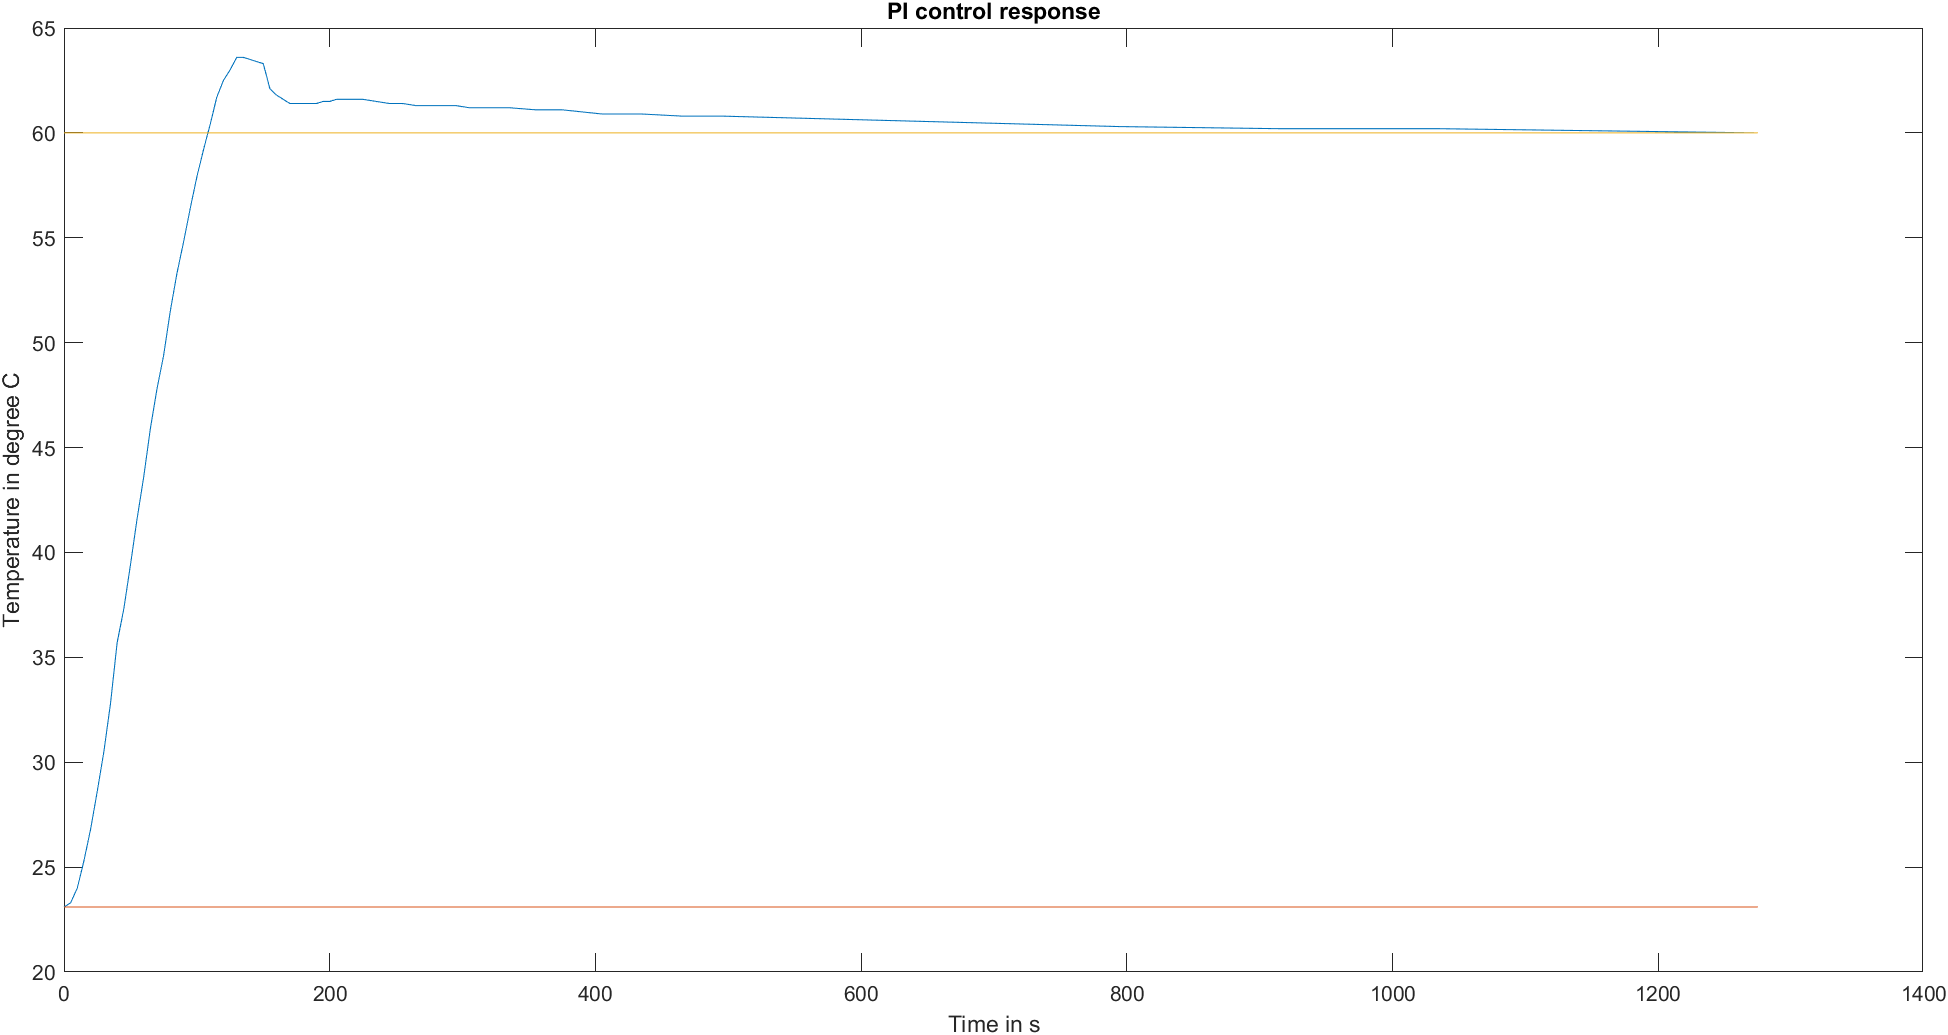
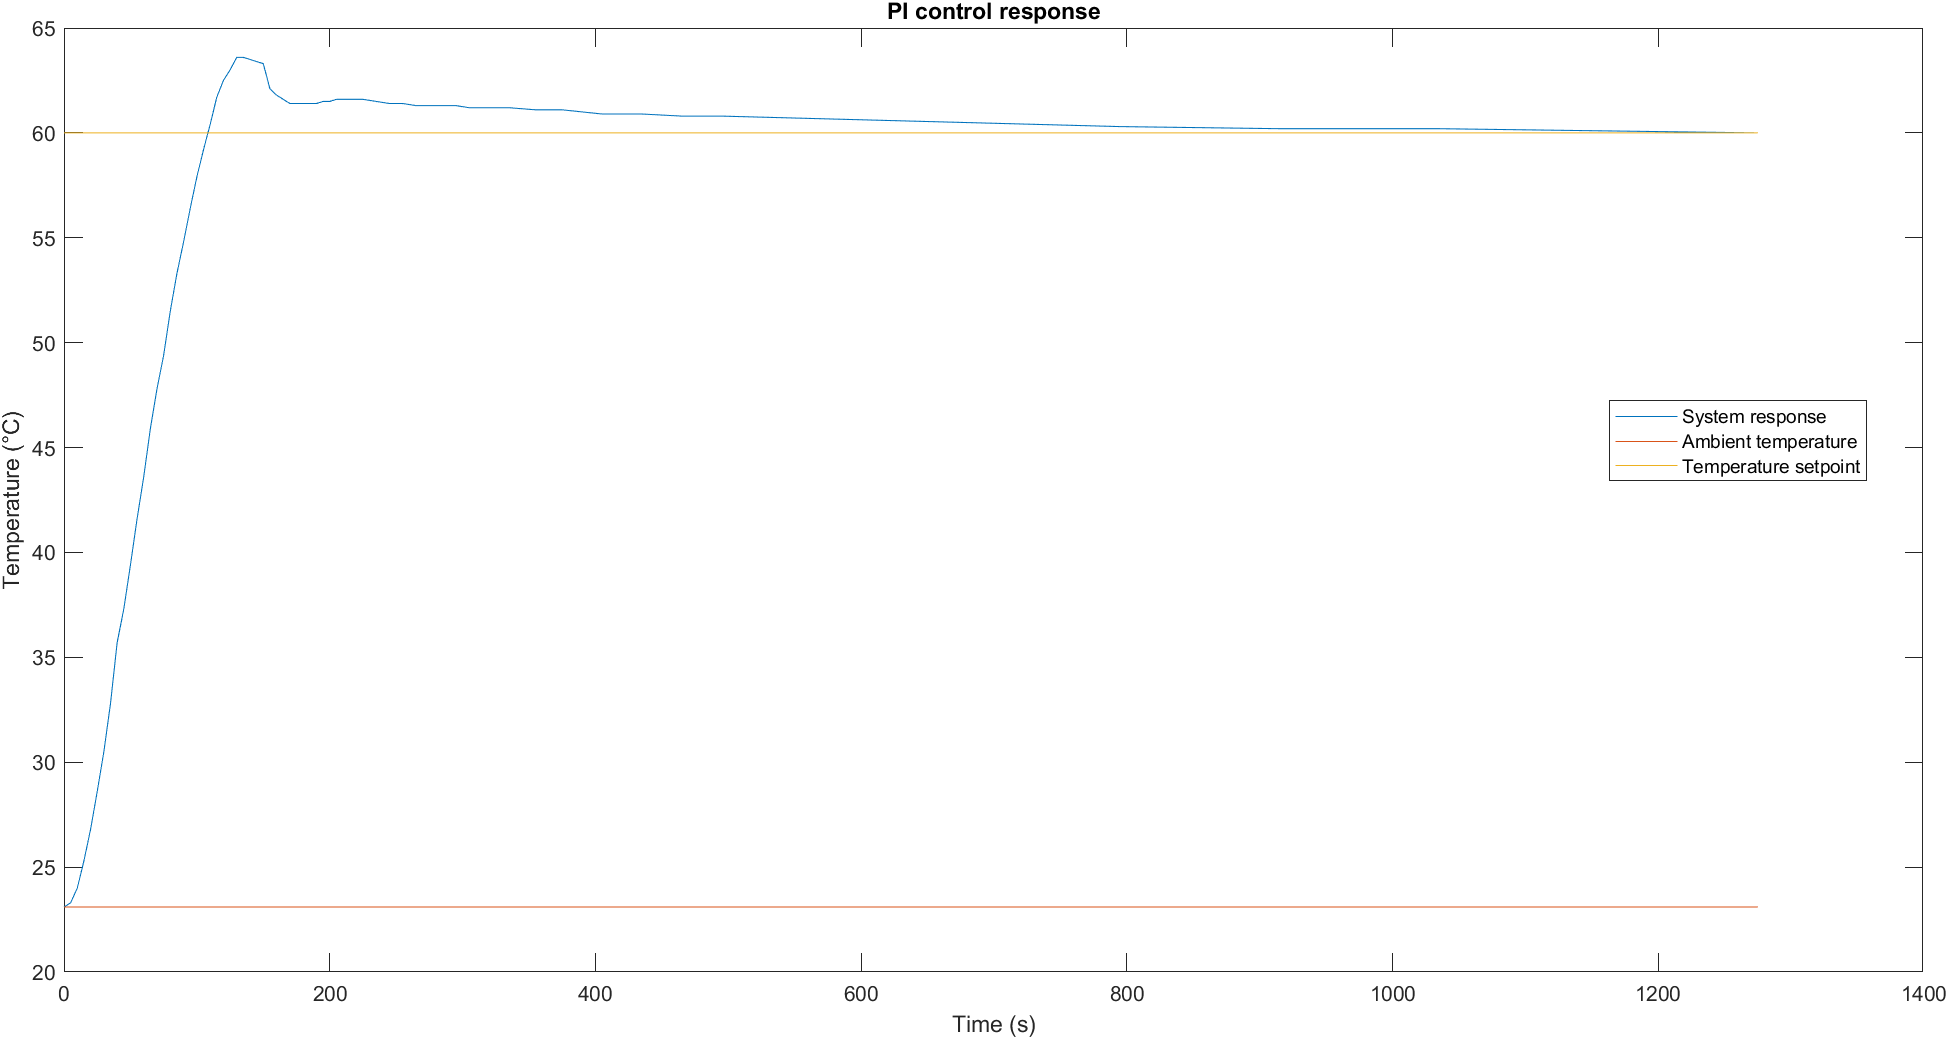
added legend to plots

diff --git a/on_off_control_script.m b/on_off_control_script.m
@@ -13,24 +13,26 @@ t2 = xlsread('on-off-control-high-hyst-data.xlsx', 'Sheet1', 'A2:A107');
 
 % Plot dataset 1
 figure;
-plot(t1, f1);
+plot(t1, f1);   % main plot
 ylim([20 80]);
 hold on;
-plot([t1(1), t1(end)], [f1(1),f1(1)]);
+plot([t1(1), t1(end)], [f1(1),f1(1)]);  % ambient temperature
 hold on;
-plot([t1(1), t1(end)], [set_val,set_val]);
-xlabel('Time in s');
-ylabel('Temperature in degree C');
+plot([t1(1), t1(end)], [set_val,set_val]);  % temperature setpoint
+xlabel('Time (s)');
+ylabel('Temperature (°C)');
 title('ON-OFF control - Low hysteresis')
+legend("System response", "Ambient temperature", "Temperature setpoint", 'Location', 'best');
 
 % Plot dataset 2
 figure;
-plot(t2, f2);
+plot(t2, f2);   % main plot
 ylim([20 80]);
 hold on;
-plot([t2(1), t2(end)], [f2(1), f2(1)]);
+plot([t2(1), t2(end)], [f2(1), f2(1)]);  % ambient temperature
 hold on;
-plot([t2(1), t2(end)], [set_val,set_val]);
-xlabel('Time in s')
-ylabel('Temperatue in degree C')
+plot([t2(1), t2(end)], [set_val,set_val]);  % temperature setpoint
+xlabel('Time (s)')
+ylabel('Temperatue (°C)')
 title('ON-OFF control - High hysteresis')
+legend("System response", "Ambient temperature", "Temperature setpoint", 'Location', 'best');

diff --git a/P_control_script.m b/P_control_script.m
@@ -20,15 +20,16 @@ f1 = xlsread('p-control-data.xlsx', 'Sheet1', 'B2:B59');
 t1 = xlsread('p-control-data.xlsx', 'Sheet1', 'A2:A59');
 
 % Plot dataset
-plot(t1, f1);
+plot(t1, f1);   % main plot
 ylim([20 65]);
 hold on;
-plot([t1(1), t1(end)], [f1(1),f1(1)]);
+plot([t1(1), t1(end)], [f1(1),f1(1)]);  % ambient temperature
 hold on;
-plot([t1(1), t1(end)], [set_val,set_val]);
-xlabel('Time in s');
-ylabel('Temperature in degree C');
+plot([t1(1), t1(end)], [set_val,set_val]);  % temperature setpoint
+xlabel('Time (s)');
+ylabel('Temperature (°C)');
 title('P control response');
+legend("System response", "Ambient temperature", "Temperature setpoint", 'Location', 'best');
 
 % peak overshoot computation
 peak_overshoot = ( max(f1) - set_val )*100/set_val;

diff --git a/PID_control_script.m b/PID_control_script.m
@@ -30,14 +30,15 @@ f = xlsread('pid-control-data.xlsx', 'Sheet1', 'B2:B63');
 t = xlsread('pid-control-data.xlsx', 'Sheet1', 'A2:A63');
 
 % Plot dataset
-plot(t,f);
+plot(t,f);  % main plot
 hold on;
-plot([t(1), t(end)], [f(1), f(1)]);
+plot([t(1), t(end)], [f(1), f(1)]); % ambient temperature
 hold on;
-plot([t(1), t(end)], [set_val, set_val]);
-xlabel('Time in s');
-ylabel('Temperature in degree C');
+plot([t(1), t(end)], [set_val, set_val]);   % temperature setpoint
+xlabel('Time (s)');
+ylabel('Temperature (°C)');
 title('PID control response');
+legend("System response", "Ambient temperature", "Temperature setpoint", 'Location', 'best');
 
 % peak overshoot computation
 peak_overshoot = ( max(f) - f(end) )*100/f(end);

diff --git a/open_loop_script.m b/open_loop_script.m
@@ -20,15 +20,18 @@ y = m*x + c;
 plot(x, y);
 hold on;
 % ambient line
-plot( [0, (f(1)-c)/m], [f(1), f(1)] );
+plot([t(1), t(end)], [f(1) f(1)]);
 hold on;
 % steady state line
-plot( [(f(n)-c)/m, t(end)], [f(n), f(n)] );
+plot([t(1), t(end)], [f(end) f(end)]);
 hold on;
+% point of inflection
 plot( time_gap*(inflection_point_idx - 1), f(inflection_point_idx) , 'g*');
+% title, labels, legend to plot
 title('Open loop response');
-xlabel('time in s');
-ylabel('temperature in degree C');
+xlabel('Time (s)');
+ylabel('Temperature (°C)');
+legend("System response", "Inflectional tangent", "Ambient temperature", "Steady state temperature", "Point of inflection", 'Location', 'best');
 
 % const calculation
 input_volts = 0.5;

diff --git a/PI_control_script.m b/PI_control_script.m
@@ -25,14 +25,15 @@ f = xlsread('pi-control-data.xlsx', 'Sheet1', 'B2:B70');
 t = xlsread('pi-control-data.xlsx', 'Sheet1', 'A2:A70');
 
 % Plot dataset
-plot(t,f);
+plot(t,f);  % main plot
 hold on;
-plot([t(1), t(end)], [f(1), f(1)]);
+plot([t(1), t(end)], [f(1), f(1)]); % ambient temperature
 hold on;
-plot([t(1), t(end)], [set_val, set_val]);
-xlabel('Time in s');
-ylabel('Temperature in degree C');
+plot([t(1), t(end)], [set_val, set_val]);   % temperature setpoint
+xlabel('Time (s)');
+ylabel('Temperature (°C)');
 title('PI control response');
+legend("System response", "Ambient temperature", "Temperature setpoint", 'Location', 'best');
 
 % peak overshoot computation
 peak_overshoot = ( max(f) - f(60) )*100/f(60);
